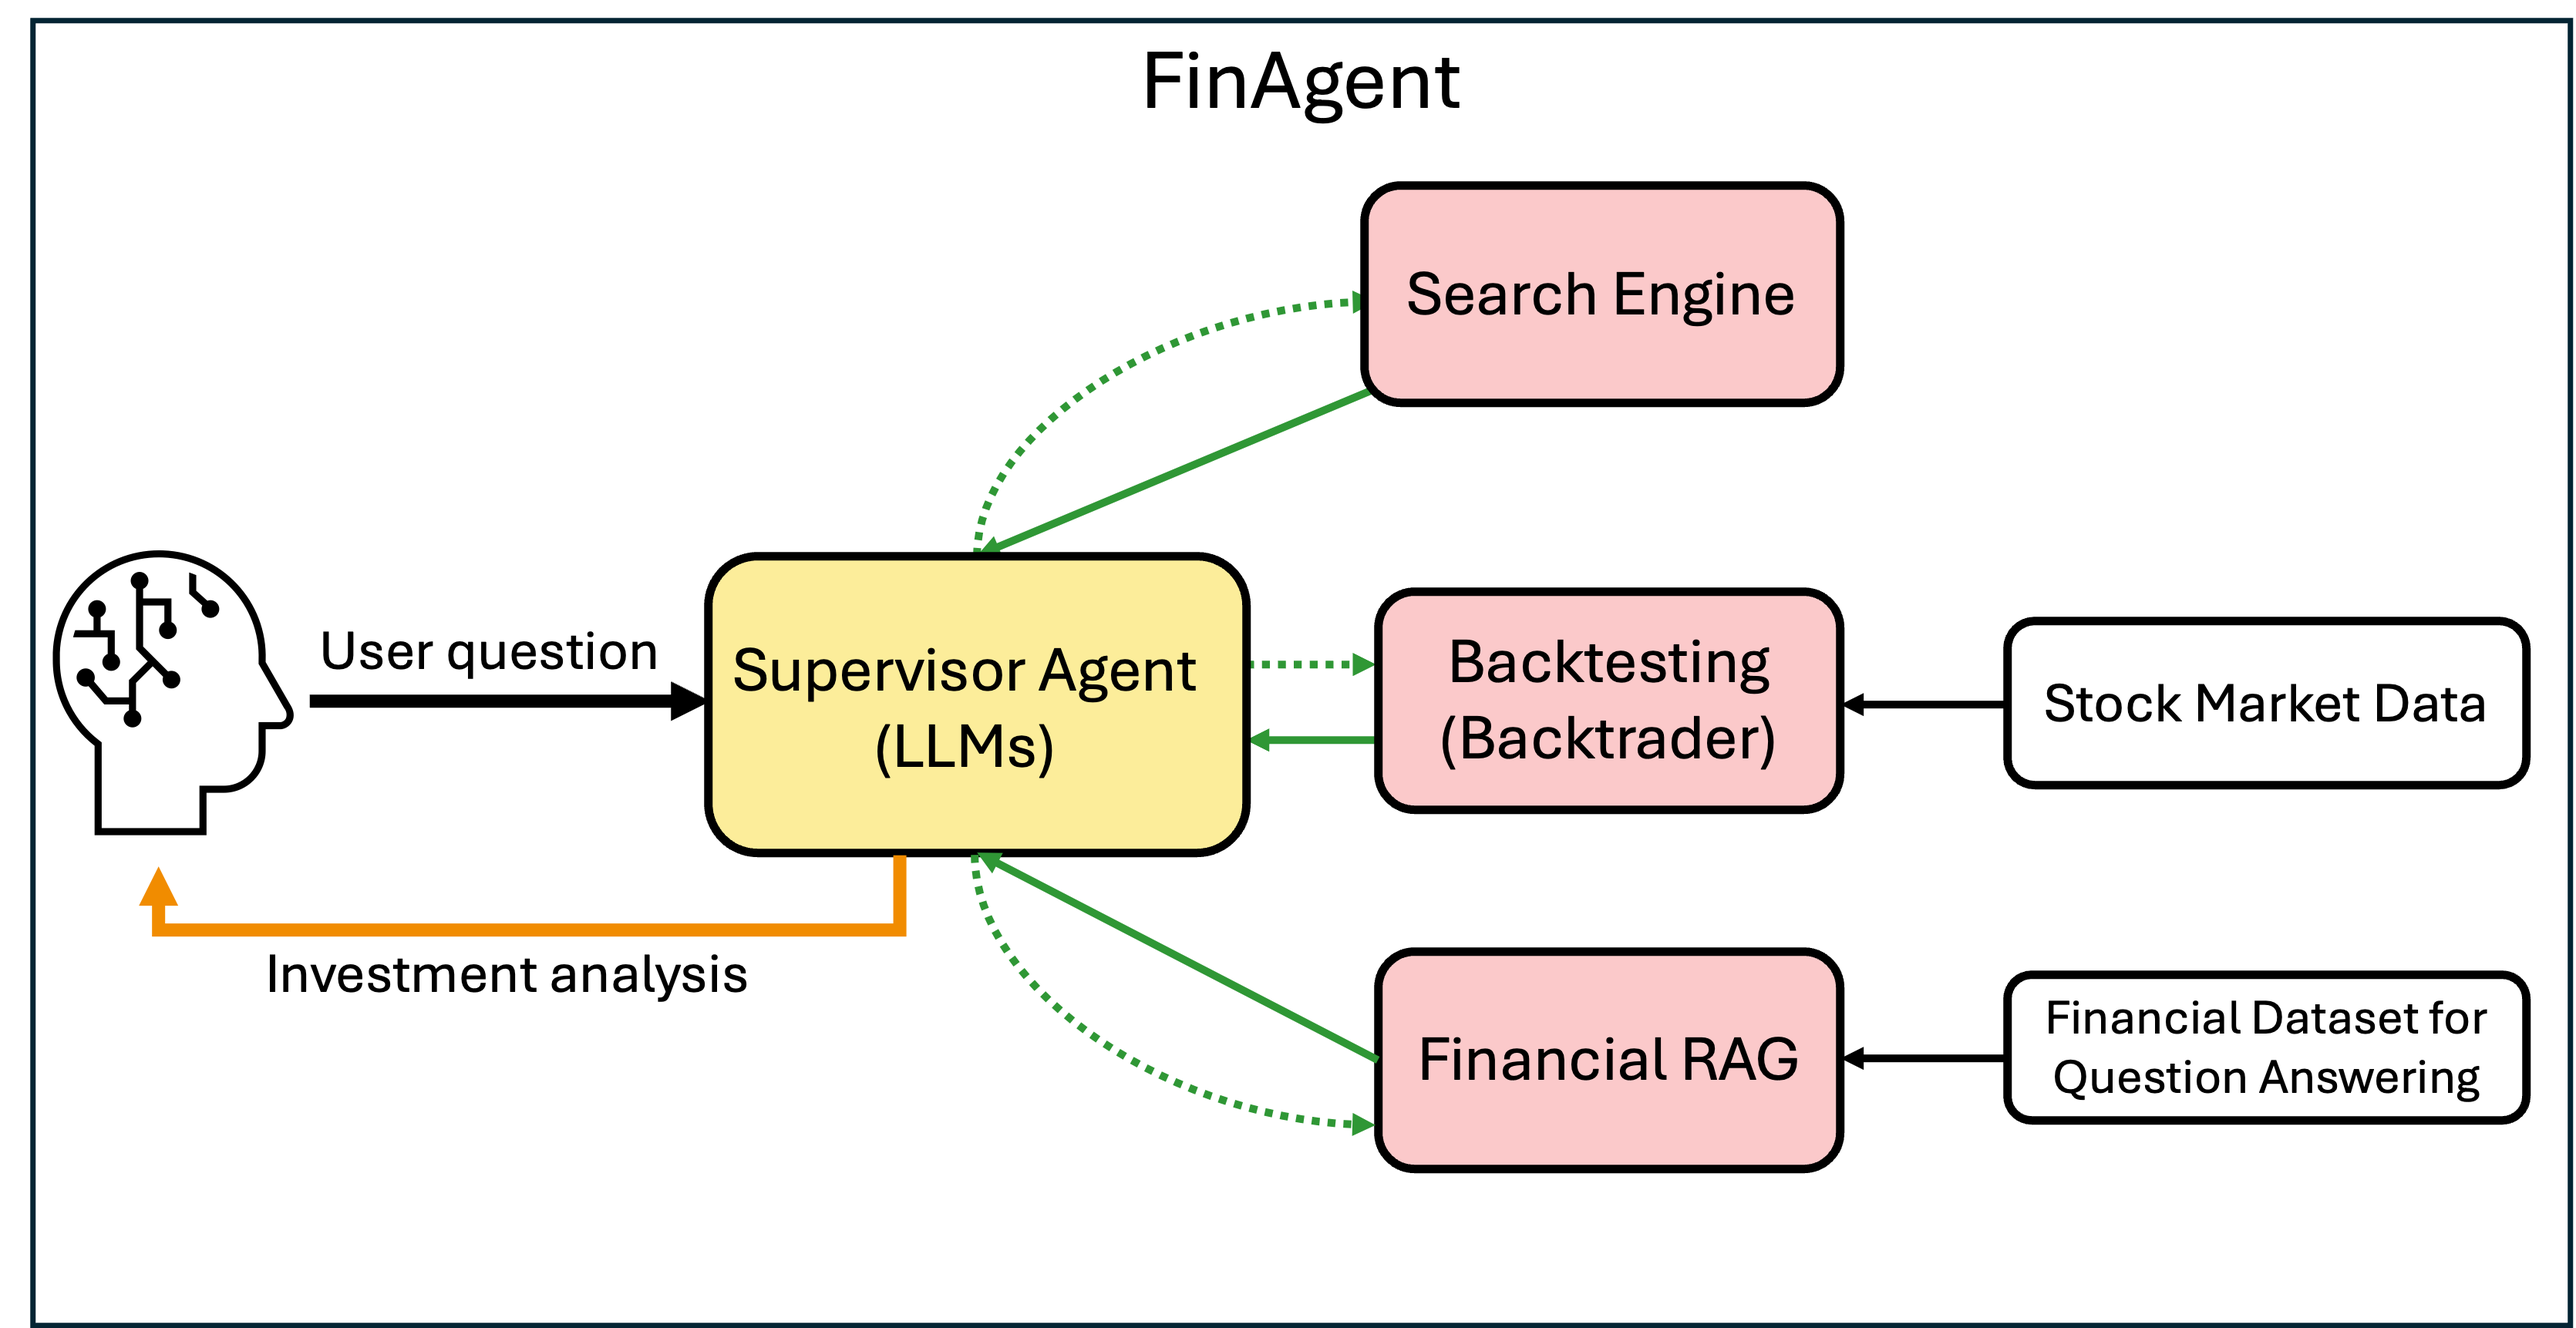
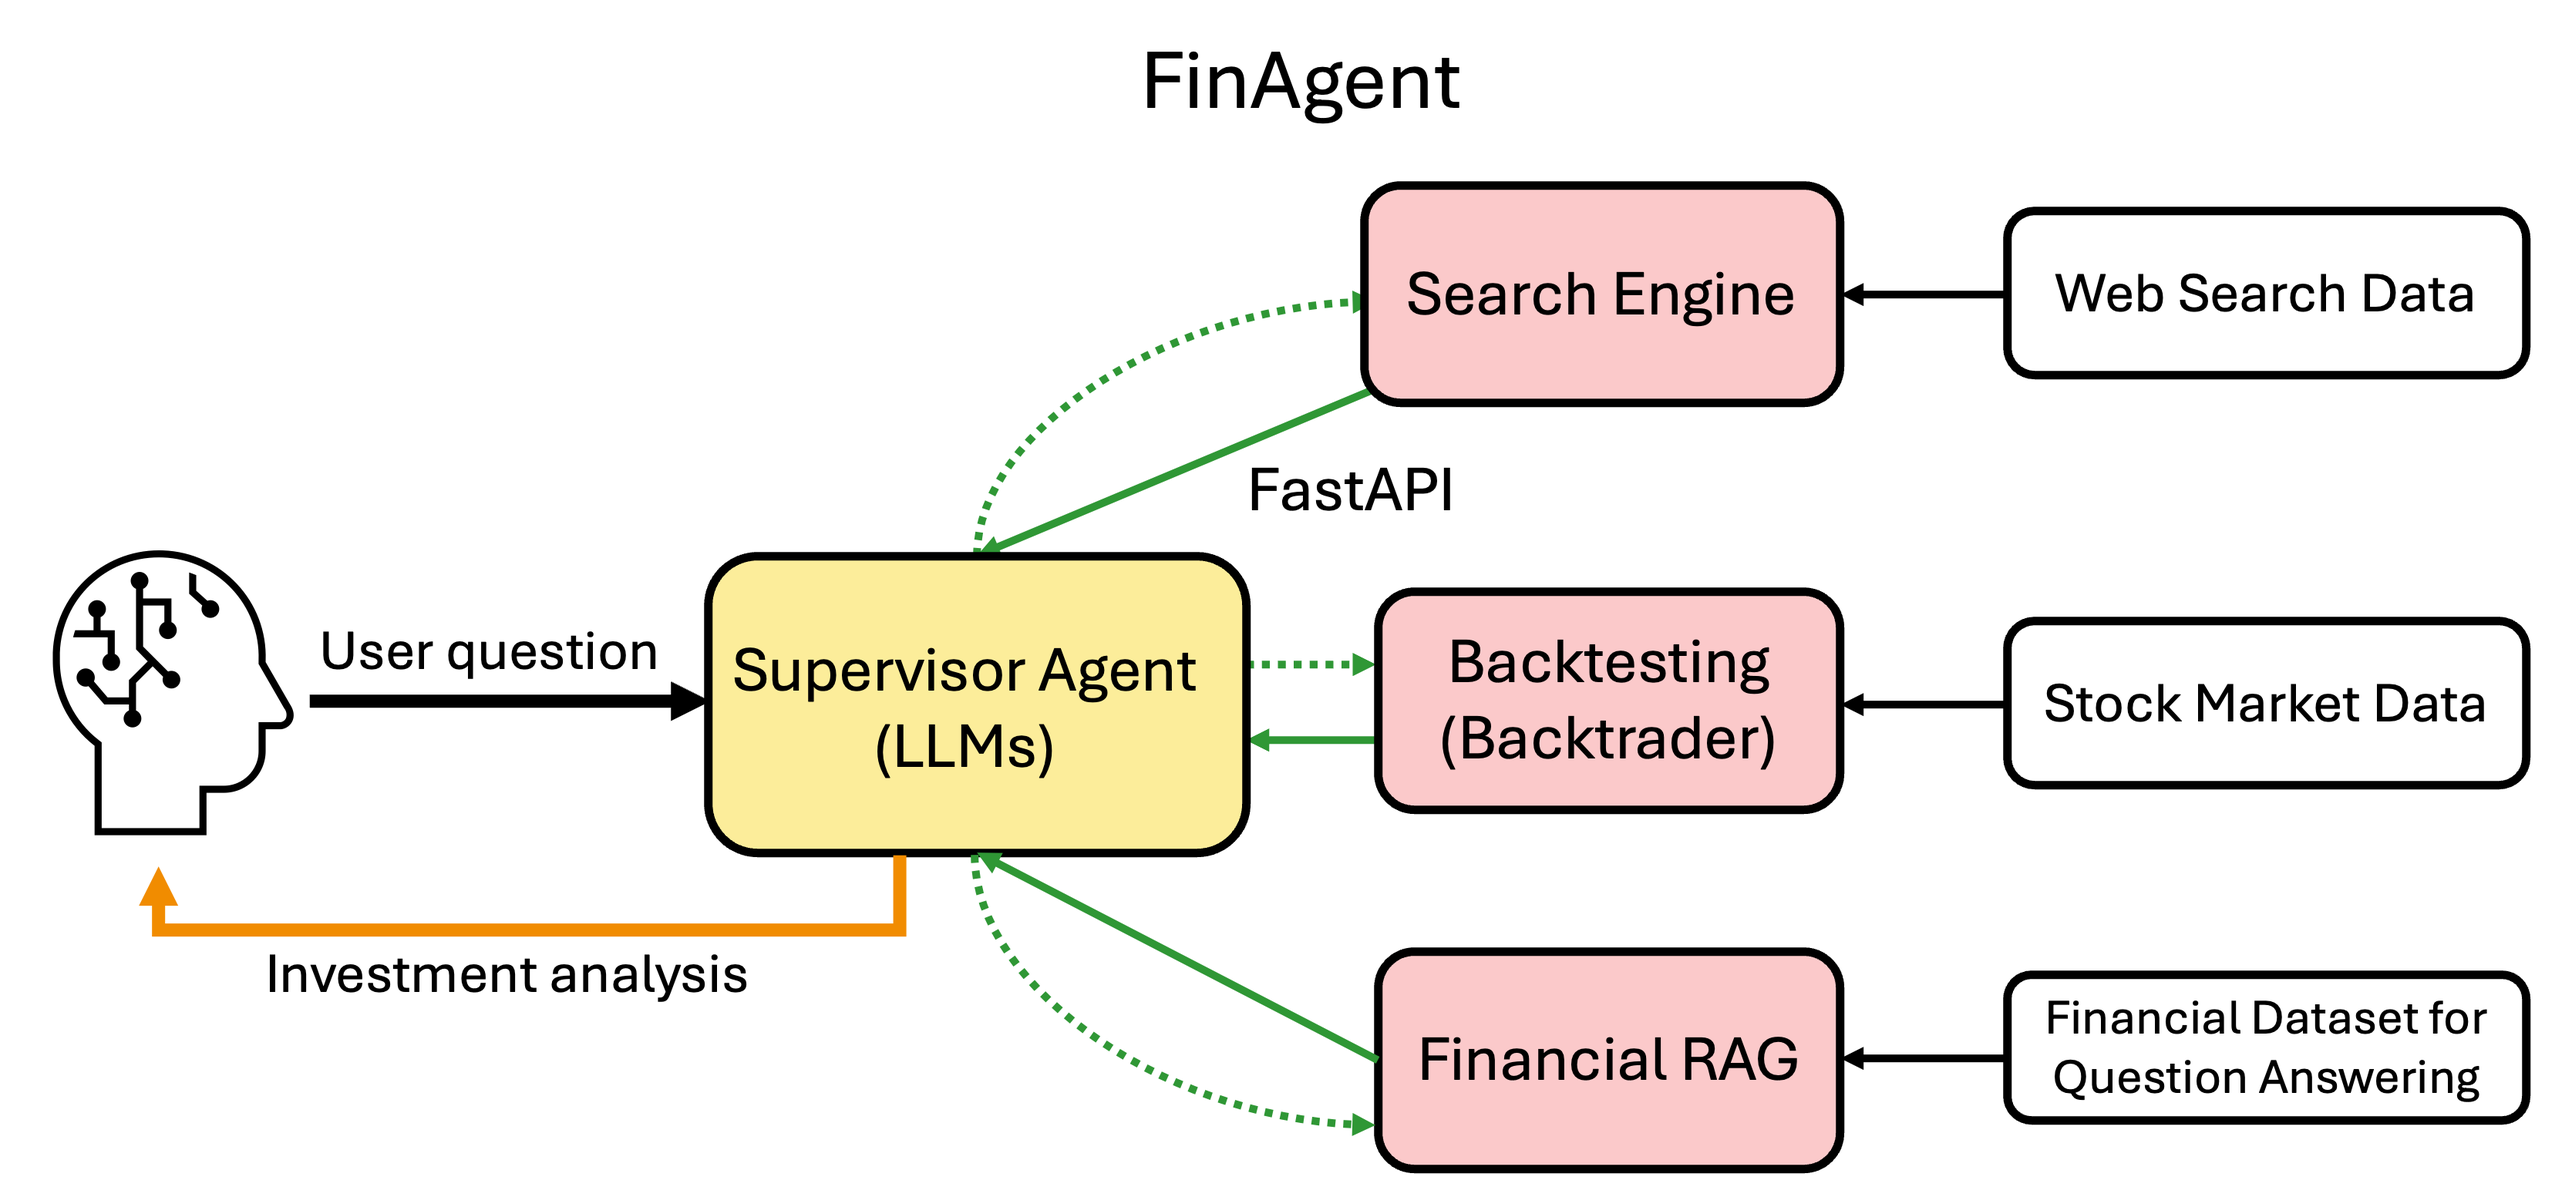
Add FastAPI and Docker Compose

Changed region(s): [[0.0, 0.0, 1.0, 1.0]]

diff --git a/mcp_server/server.py b/mcp_server/server.py
@@ -1,0 +1,80 @@
+from fastapi import FastAPI, Query, HTTPException
+from fastapi_mcp import FastApiMCP
+from serpapi import GoogleSearch
+from dotenv import load_dotenv
+from typing import List, Optional, Dict, Any
+from models import SearchResponse
+from fastapi import Request
+import httpx
+import os
+import uvicorn
+import anyio
+
+
+load_dotenv()
+SERP_API_KEY = os.getenv("SERPAPI_API_KEY")
+
+app = FastAPI(title="SerpAPI Server")
+client = httpx.AsyncClient(timeout=30.0)
+
+@app.get("/hello", operation_id="hello", tags=["tools"])
+async def hello():
+    return {"message": "Hello from FastAPI!"}
+
+@app.get("/search", response_model=SearchResponse, operation_id="search_tool", tags=["tools"])
+async def serp_search(
+    query: str = Query(..., description="Search query"),
+    num_results: int = Query(5, description="Number of results"),
+    hl: str = Query("en", description="Language code"),
+    gl: str = Query("us", description="Country code")
+):
+    
+    if not SERP_API_KEY:
+        return {"error": "Missing SERPAPI_API_KEY. Please set it in .env"}
+
+    params = {
+        "api_key": SERP_API_KEY,
+        "q": query,
+        "hl": hl,
+        "gl": gl,
+        "num": num_results
+    }
+
+    try:
+        def run_search() -> Dict[str, Any]:
+            search = GoogleSearch(params)
+            return search.get_dict()
+
+        data = await anyio.to_thread.run_sync(run_search)
+        organic = data.get("organic_results", []) or []
+
+        results: List[Dict[str, Optional[str]]] = [
+            {
+                "title": item.get("title"),
+                "link": item.get("link"),
+                "snippet": item.get("snippet"),
+            }
+            for item in organic[:num_results]
+        ]
+
+        return SearchResponse(query=query, results=results)
+
+    except Exception as e:
+        raise HTTPException(status_code=503, detail=f"Failed to query SerpAPI: {str(e)}")
+
+mcp = FastApiMCP(
+    app,
+    name="SerpAPI MCP",
+    include_tags=["tools"] 
+)
+
+mcp.mount_http()
+
+@app.on_event("shutdown")
+async def shutdown_event():
+    """Clean up HTTP client on shutdown"""
+    await client.aclose()
+
+if __name__ == "__main__":
+    import uvicorn
+    uvicorn.run("server:app", host="0.0.0.0", port=8000, reload=True)

diff --git a/src/run_react_agent.py b/src/run_react_agent.py
@@ -1,5 +1,4 @@
-from graph.tools import create_retriever_tool
-from graph.tools import backtest_tool
+from graph.tools import create_retriever_tool, backtest_tool, search_stock_info
 from embedder.embedder_factory import EmbedderFactory
 from vectordb.faiss_db import FaissVectorDB
 from retriever.financial_retriever import FinancialRetriver
@@ -25,20 +24,20 @@ if __name__ == "__main__":
         openai - e.g. gpt-4o-mini
     '''
     llm = LLMFactory.create_llm(
-        provider="huggingface",
-        model_name="mistralai/Mixtral-8x7B-Instruct-v0.1",
+        provider="google",
+        model_name="gemini-2.0-flash-exp",
         temperature=0
     )
 
     # Tool list
-    tools = [retriever_tool, backtest_tool]
+    tools = [retriever_tool, backtest_tool, search_stock_info]
 
     # Create ReAct agent
     prompt = (
         "You are a financial assistant.\n"
         "RULES:\n"
-        "1) If the question is about a stock's outlook/market potential, ALWAYS call tools before answering.\n"
-        "2) First call `retrieve_financial_docs` with the user's query.\n"
+        "1) If the question is about a stock's outlook or predictions, ALWAYS call search_stock_info.\n"
+        "2) Then call `retrieve_financial_docs` with the user's query.\n"
         "3) If the query mentions AAPL/Apple, then call `backtest` (use the default csv_path if not provided).\n"
         "4) Please give the paramters of backtesting analyze the result.\n"
         "5) After tool observations, synthesize a final, concise answer."

diff --git a/src/graph/tools.py b/src/graph/tools.py
@@ -1,5 +1,6 @@
 from langchain_core.tools import tool
 from stock.trader import Backtester, SmaCross
+import httpx
 
 @tool(
     "backtest",
@@ -29,4 +30,32 @@ def create_retriever_tool(retriever):
     def retriever_tool(query: str):
         return retriever.retrieve(query)[:3] 
     return retriever_tool
+
+@tool(
+    "search_stock_info",
+    description=(
+        "Search for stock outlook, predictions, or market potential using the SerpAPI FastAPI endpoint."
+        "Returns summarized search results from Google."
+    ),
+)
+def search_stock_info(query: str, num_results: int = 3, hl: str = "en", gl: str = "us"):
+    BASE_URL = "http://localhost:8000" 
+    with httpx.Client(timeout=20.0) as client:
+        params = {
+            "query": query,
+            "num_results": num_results,
+            "hl": hl,
+            "gl": gl
+        }
+        resp = client.get(f"{BASE_URL}/search", params=params)
+        if resp.status_code != 200:
+            return f"Search failed: {resp.text}"
+        data = resp.json()
+        results = data.get("results", [])
+        if not results:
+            return "No search results found."
+        summary = "\n".join(
+            [f"- {r['title']}\n  {r['link']}" for r in results]
+        )
+        return f"Search results for '{query}':\n{summary}"
 

diff --git a/mcp_server/models.py b/mcp_server/models.py
@@ -1,0 +1,11 @@
+from typing import List, Dict, Optional
+from pydantic import BaseModel
+
+class SearchResult(BaseModel):
+    title: Optional[str]
+    link: Optional[str]
+    snippet: Optional[str]
+
+class SearchResponse(BaseModel):
+    query: str
+    results: List[SearchResult]

diff --git a/README.md b/README.md
@@ -6,11 +6,11 @@ This repository is about developing a Financial AI Agent, combining financial da
 
 
 ## Features
-- **Vector Database (LlamaIndex + Faiss)**     
+- **Vector Database (LlamaIndex & Faiss)**     
   Build a retrieval system for financial documents (e.g., earnings reports, analyst research, news). Currently experimenting with vector database construction using the FinDER dataset [1] to enable Retrieval-Augmented Generation (RAG) for financial QA.
 
-- **Search Engine API Integration** **(WIP)**         
-  Get the latest market news and price updates.
+- **Search Engine API Integration** **(FastAPI & SerpAPI)**         
+  Get the latest market news.
 
 - **Backtesting in Quantitative Trading (Backtrader)**        
   Download historical stock market data from both the Taiwan and U.S. markets for specified time ranges. It allows users to run trading strategies such as Simple Moving Average (SMA) cross and momentum-based approaches, enabling backtesting and performance evaluation on real market data.
@@ -23,6 +23,11 @@ This repository is about developing a Financial AI Agent, combining financial da
 
 
 ## Usage
+
+### Run with Docker Compose
+```bash
+docker-compose up --build
+```
 
 ### Install dependencies
 ```bash
